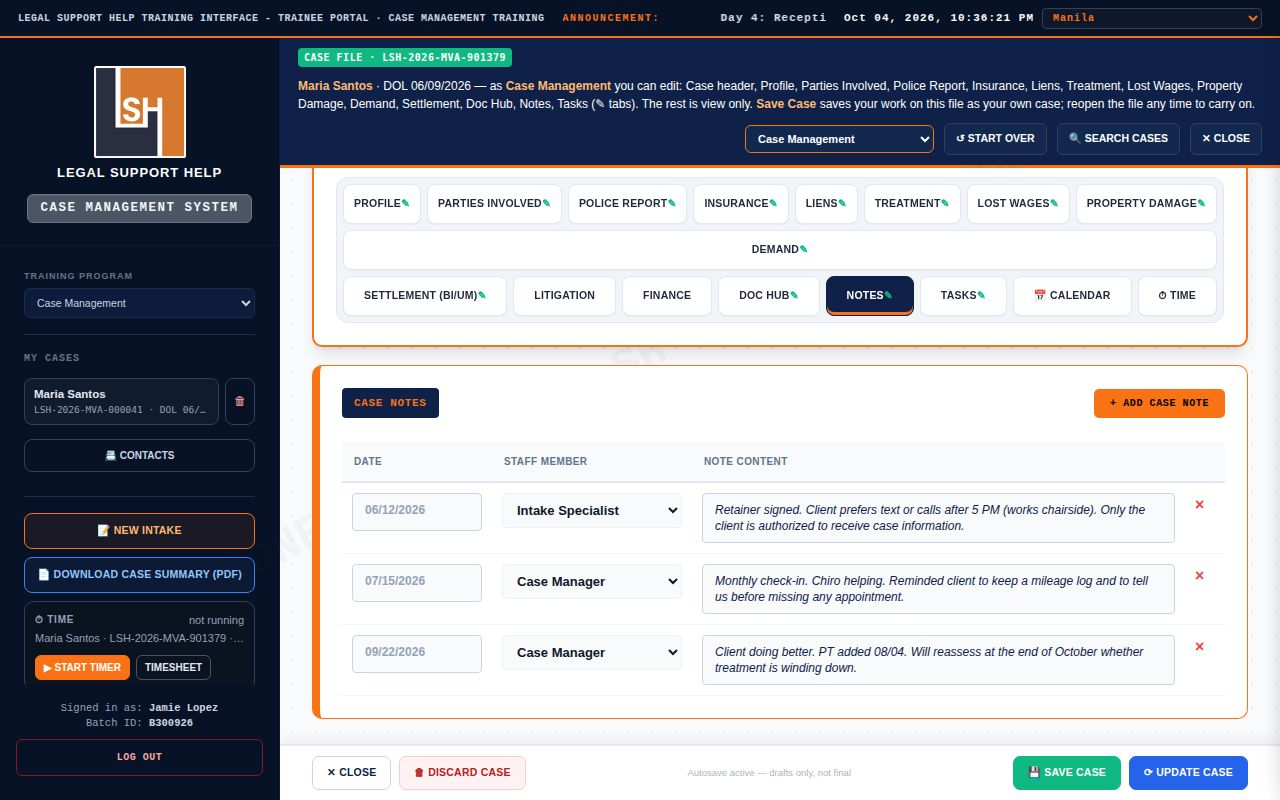
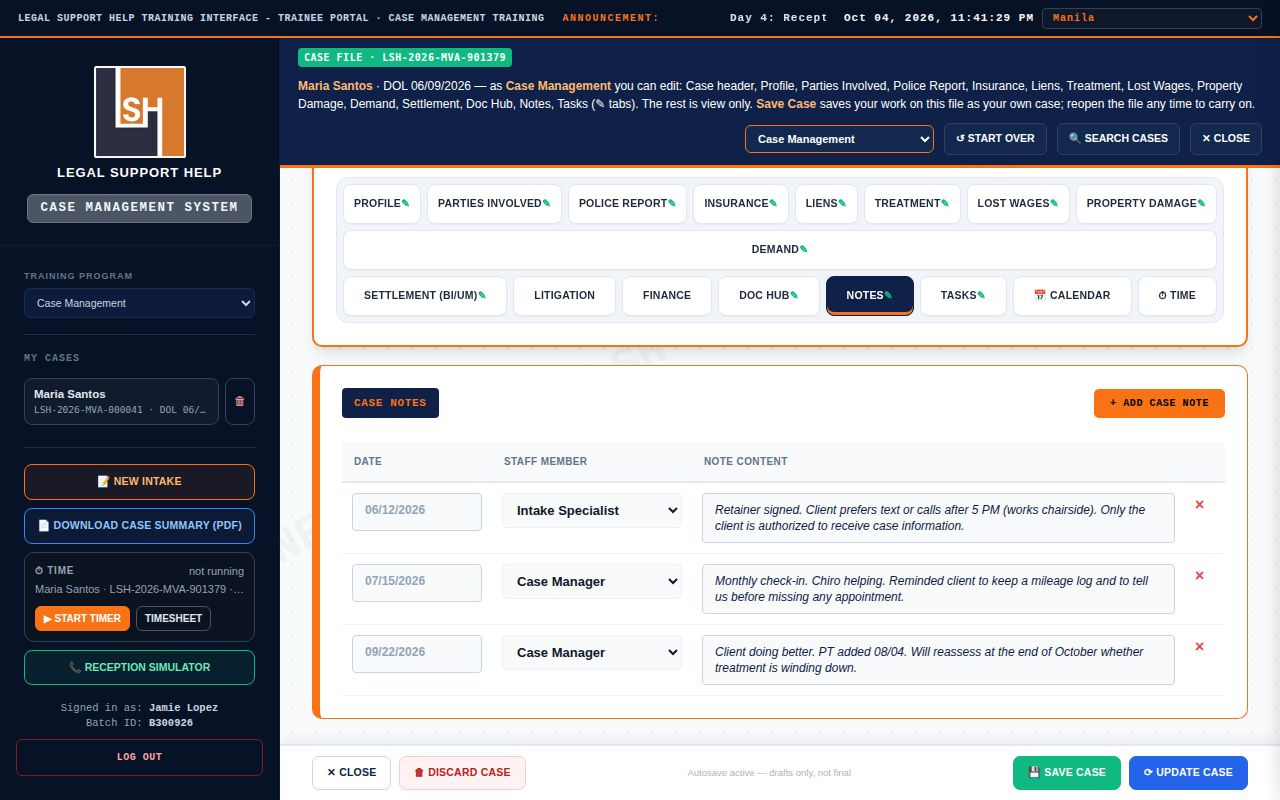
Contacts: retake Blueprint screenshots; stronger contacts checks; README header rows
- Every Blueprint screenshot retaken: none shows the removed 📇 Contacts
  sidebar button or Case Library tab.
- contacts.cjs: 'searching contacts isn't an edit' is checked on an
  editable file too, with a real edit as the control; the ↓ scroll check
  runs on a short window, where it fails without the fix.
- README: the case header rows are Contact/SSN/DOB, then
  Attorney/Case Manager/Target Settlement.

Claude-Session: https://claude.ai/code/session_01P8khRScK4qA2qPBPXA4ncp

Changed region(s): [[0.0, 0.5625, 0.2188, 0.875], [0.5625, 0.0, 0.6562, 0.0312], [0.75, 0.0, 0.7812, 0.0312]]

diff --git a/README.md b/README.md
@@ -289,8 +289,8 @@ With the admin password set (and `PORTAL_ONLY` not `off`), trainees sign in only
 
 The top of the case is the client's demographics. Each box has its label above it and a border you can see, empty or filled:
 - **Client's Name**;
-- **Contact**, **SSN** and **Target Settlement**;
-- **Attorney** and **Case Manager**.
+- **Contact**, **SSN** and **DOB**;
+- **Attorney**, **Case Manager** and **Target Settlement**.
 
 The **SSN** beside Contact is the Profile tab's SSN shown again, and typing in either changes both. Only the Profile tab's is saved, so cases saved before keep every field where it was (`data-mirror` in `app.js`).
 
